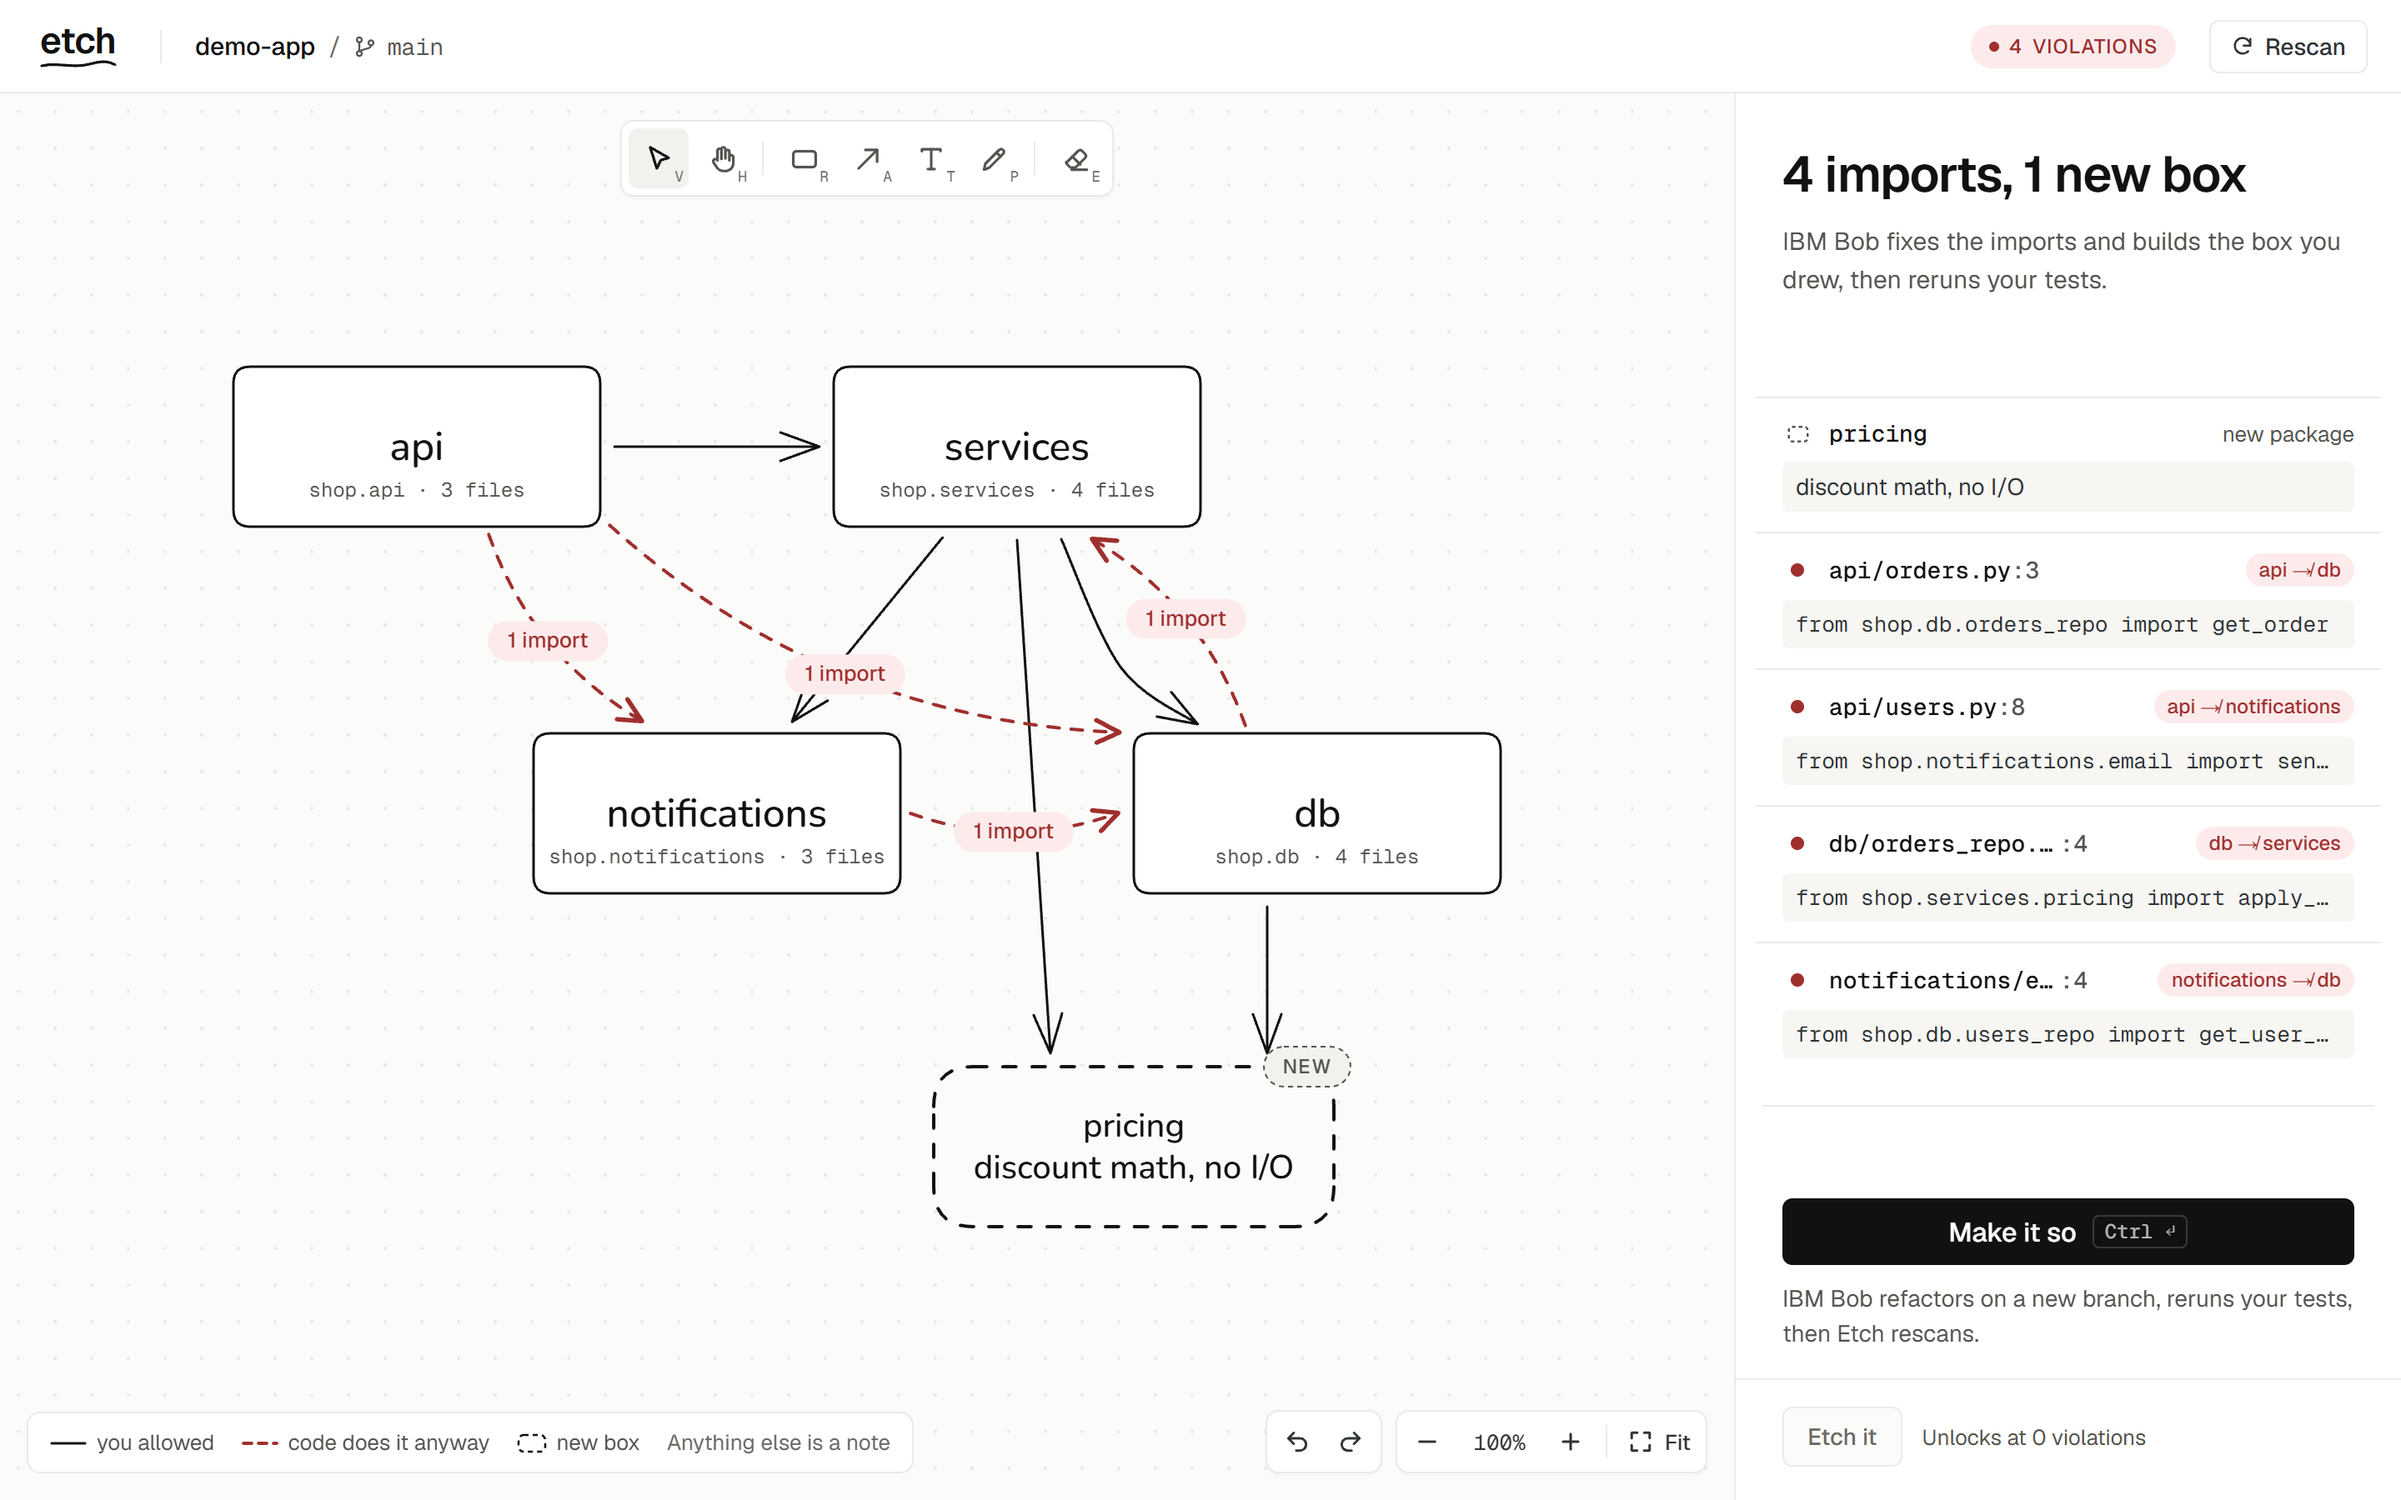
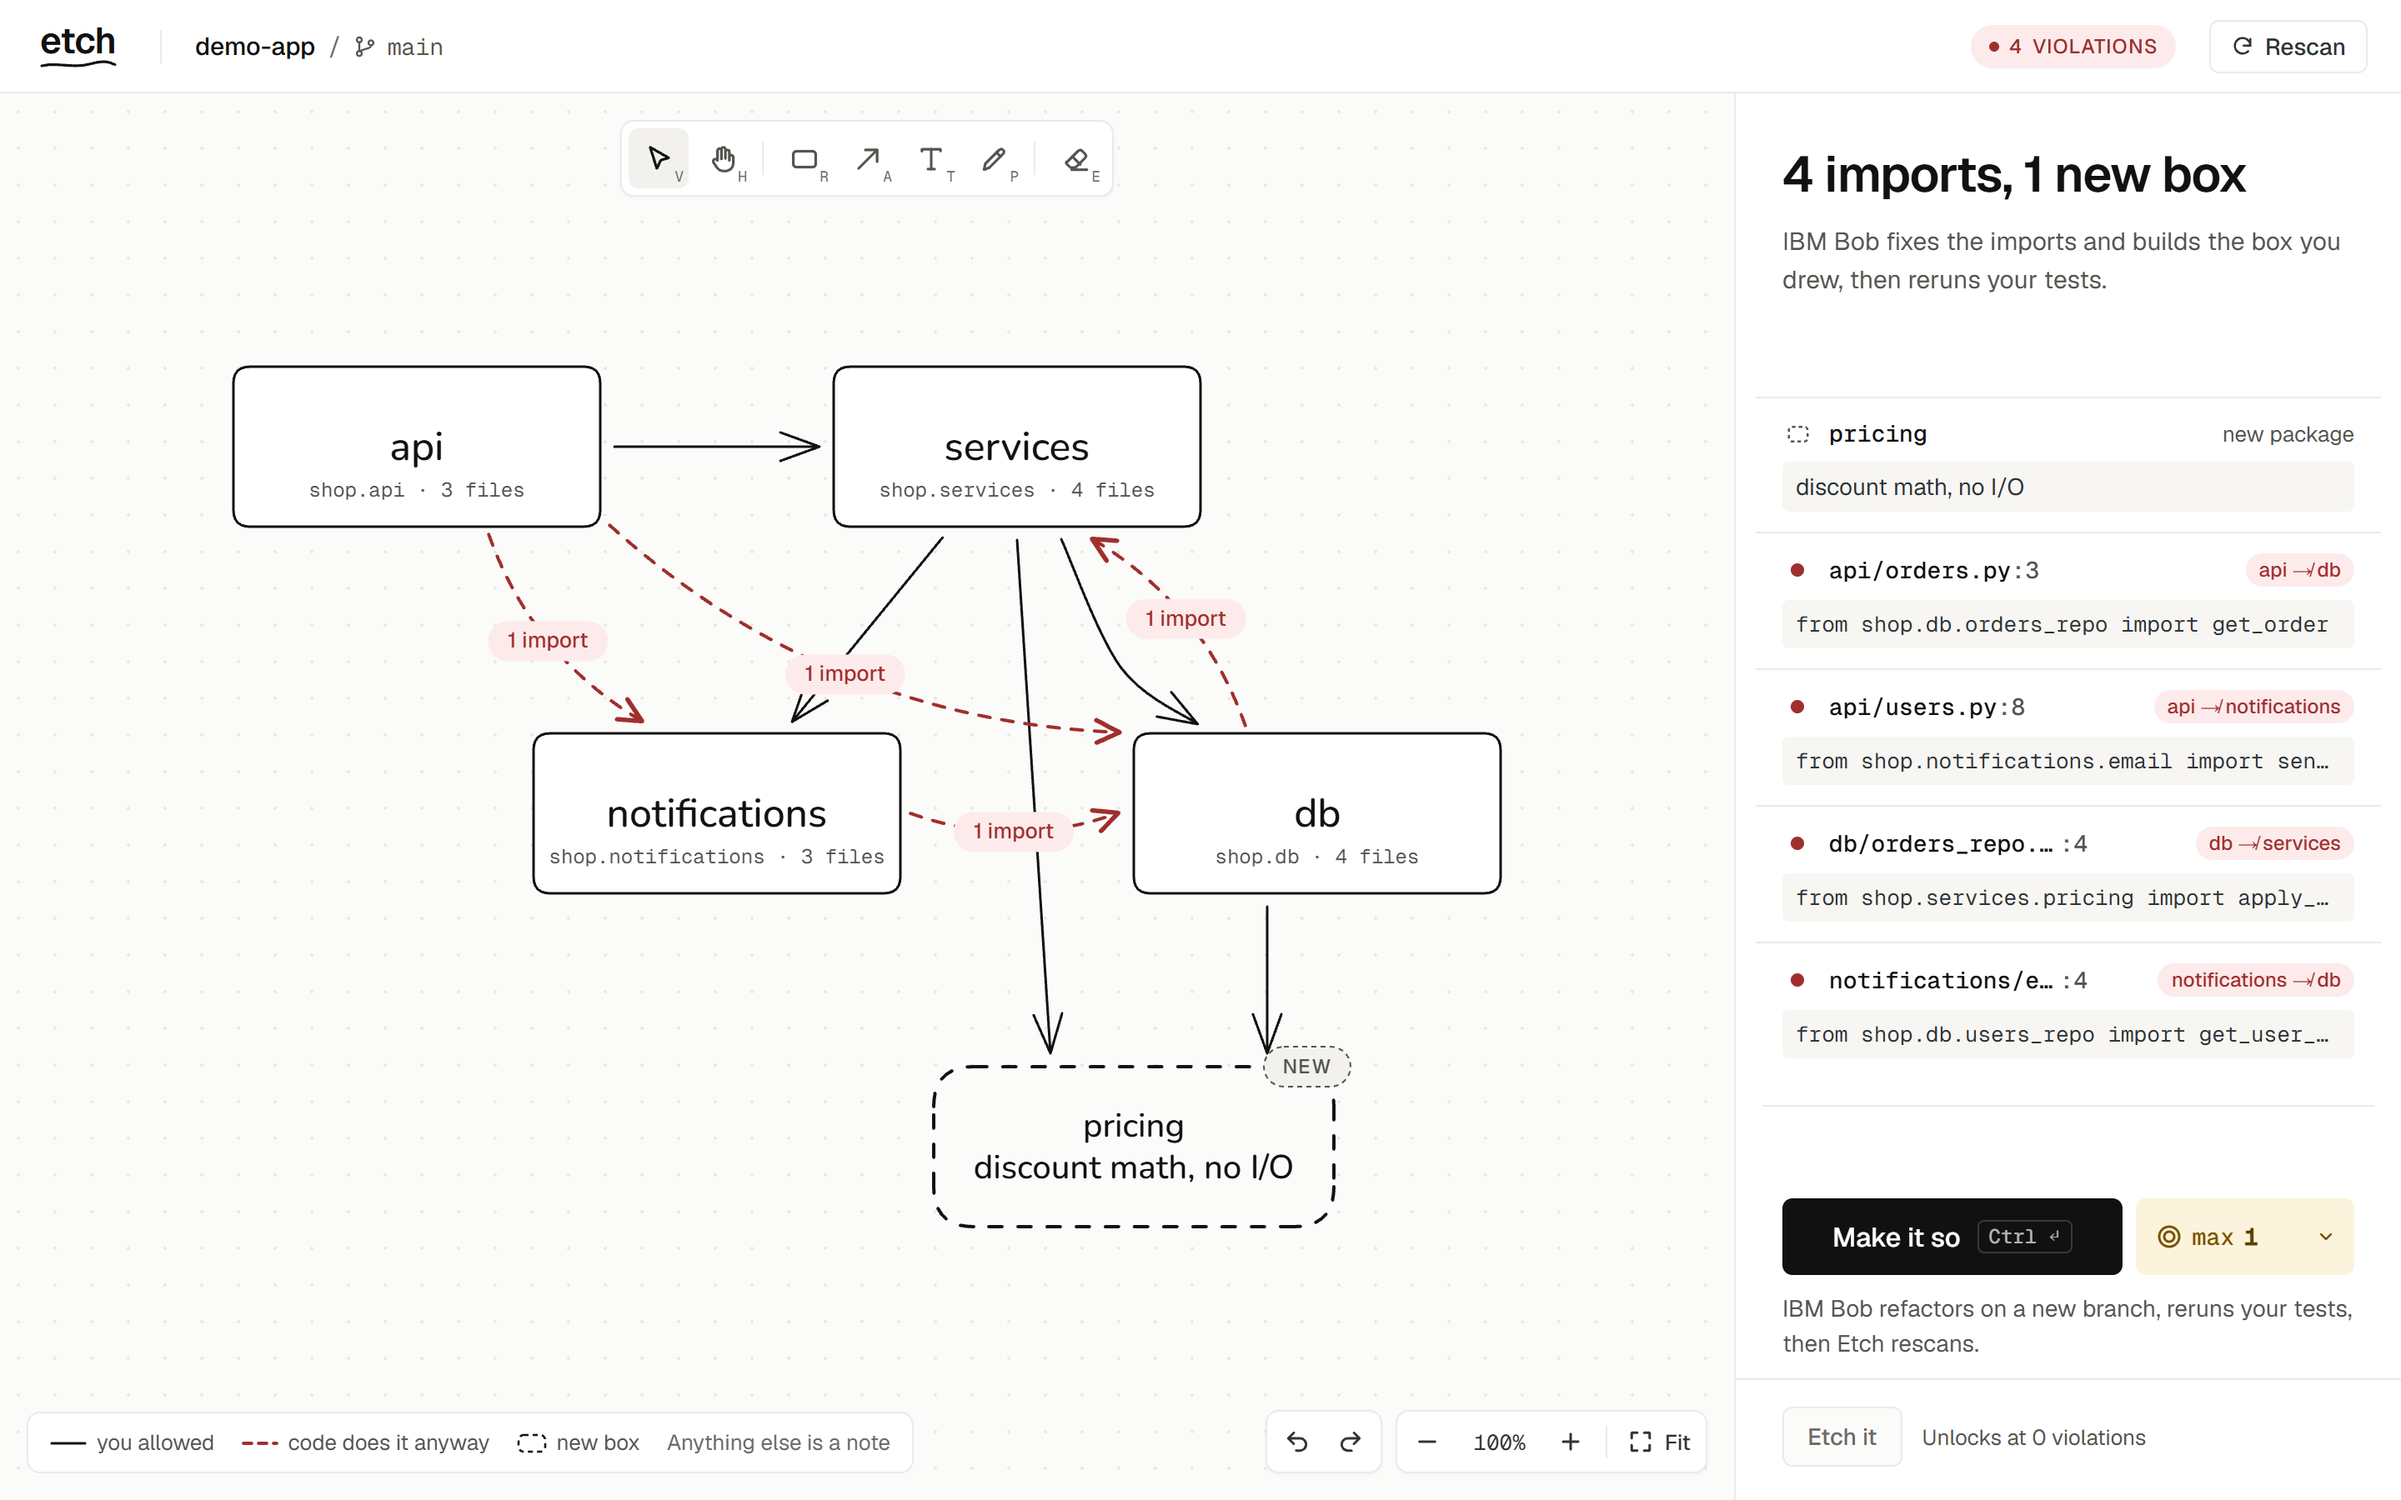
README: minimal grayscale diagrams; screenshots show the Bobcoin budget picker

Changed region(s): [[0.75, 0.7778, 1.0, 0.9022]]

diff --git a/README.md b/README.md
@@ -50,21 +50,14 @@ Tools like import-linter can enforce layers, but their config is hand-written an
 ## What Etch does
 
 ```mermaid
+%%{init: {"theme": "neutral"}}%%
 flowchart TD
-    A["Your Python repo"] -->|scan| B["Draw<br/>keep the arrows you allow,<br/>add the boxes you want"]
-    B --> C["Red arrows<br/>every import that breaks<br/>the drawing, file:line"]
-    C -->|Make it so| D["IBM Bob<br/>refactors and builds<br/>the new boxes"]
-    D -->|rescan + tests| E["Code obeys<br/>the drawing"]
-    E -->|Etch it| F["Contracts, Bob skill,<br/>PR check"]
-    F --> G["A PR that breaks<br/>the drawing is blocked"]
-
-    style A fill:#FBFBFA,stroke:#111111,color:#111111
-    style B fill:#FFFFFF,stroke:#111111,color:#111111
-    style C fill:#FDEBEC,stroke:#9F2F2D,color:#9F2F2D
-    style D fill:#FBF3DB,stroke:#7A5200,color:#5C3D00
-    style E fill:#EDF3EC,stroke:#346538,color:#346538
-    style F fill:#E1F3FE,stroke:#1F6C9F,color:#1F6C9F
-    style G fill:#FDEBEC,stroke:#9F2F2D,color:#9F2F2D
+    A[Python repo] -->|scan| B[Draw the architecture]
+    B --> C[Red arrows: imports that break it]
+    C -->|Make it so| D[IBM Bob refactors]
+    D -->|rescan + tests| E[Code obeys the drawing]
+    E -->|Etch it| F[Contracts, Bob skill, PR check]
+    F --> G[Breaking PRs are blocked]
 ```
 
 1. **Scan.** Point Etch at a Python repo. It reads every import with [grimp](https://github.com/seddonym/grimp), including the ones hidden inside functions, and draws the real architecture as boxes and arrows. Each top-level package is one box.
@@ -141,29 +134,26 @@ Etch it writes import-linter contracts and a GitHub Action. A PR that breaks the
 What happens when you press **Make it so**:
 
 ```mermaid
+%%{init: {"theme": "neutral"}}%%
 sequenceDiagram
-    autonumber
     actor You
     participant UI as Etch UI
     participant API as Etch backend
-    participant Bob as IBM Bob Shell
-    participant Repo as Your repo
+    participant Bob as Bob Shell
+    participant Repo as Repo
 
-    You->>UI: Make it so (budget: max 1 Bobcoin)
-    UI->>API: POST /api/make-it-so (drawing, max_cost)
-    API->>Repo: scan imports (grimp)
-    API-->>UI: violations
-    API->>Bob: bob run --mode agent --format stream-json --max-cost 1
-    Note over API,Bob: prompt = allowed arrows, every broken import with file:line,<br/>the packages to create, the exact test command
-    loop every tool call Bob makes
-        Bob->>Repo: read, edit, create package
-        Bob-->>API: stream-json event
-        API->>Repo: rescan (no AI)
-        API-->>UI: log line, violations, new packages (SSE)
+    You->>UI: Make it so
+    UI->>API: drawing + budget
+    API->>Repo: scan
+    API->>Bob: rules, broken imports, boxes to build
+    loop each tool call
+        Bob->>Repo: edit
+        API->>Repo: rescan
+        API-->>UI: live update
     end
-    Bob-->>API: result (session_costs)
-    API->>Repo: pytest -q
-    API-->>UI: tests, done (Bobcoins spent, boxes still missing)
+    Bob-->>API: result + cost
+    API->>Repo: run tests
+    API-->>UI: done
 ```
 
 A run only counts as done when every broken import is gone, every drawn box is a real package, and the rescan succeeds. Otherwise Etch says what's left and offers **Undo changes**. **Stop** kills Bob's whole process tree.
@@ -237,34 +227,26 @@ A run only counts as done when every broken import is gone, every drawn box is a
 ## Architecture
 
 ```mermaid
+%%{init: {"theme": "neutral"}}%%
 flowchart TB
-    subgraph Browser["Browser · React + TypeScript"]
-        CV["Canvas<br/>Excalidraw engine + Etch toolbar"]
-        OV["SVG overlay<br/>red arrows · NEW / CREATED tags"]
-        RL["Rail<br/>rows · live log · Bobcoins"]
+    subgraph Browser
+        CV[Canvas]
+        OV[Overlay]
+        RL[Rail]
     end
-
-    subgraph Backend["Backend · Python 3.12 + FastAPI"]
-        SC["scanner<br/>grimp import graph"]
-        VI["violations"]
-        CO["contracts<br/>import-linter"]
-        SK["skillgen<br/>Bob skill · mode · PR check"]
-        BR["bob_runner<br/>Bob Shell stream"]
-        GO["gitops<br/>etch/make-it-so branch"]
+    subgraph Backend[FastAPI backend]
+        SC[scanner]
+        VI[violations]
+        CO[contracts]
+        SK[skillgen]
+        BR[bob_runner]
+        GO[gitops]
     end
-
-    Browser -- "REST + SSE" --> Backend
-    BR --> BOB["IBM Bob Shell"]
-    SC --> REPO[("Your repo")]
+    Browser -- REST + SSE --> Backend
+    BR --> BOB[Bob Shell]
+    SC --> REPO[(Repo)]
     BOB --> REPO
-    GO --> REPO
-    GO --> GH["GitHub<br/>PR + Actions gate"]
-
-    style Browser fill:#FBFBFA,stroke:#111111,color:#111111
-    style Backend fill:#FBFBFA,stroke:#111111,color:#111111
-    style BOB fill:#FBF3DB,stroke:#7A5200,color:#5C3D00
-    style REPO fill:#FFFFFF,stroke:#111111,color:#111111
-    style GH fill:#E1F3FE,stroke:#1F6C9F,color:#1F6C9F
+    GO --> GH[GitHub]
 ```
 
 Etch obeys its own rule. `etch.models` imports nothing from `etch`, the engine modules import only `etch.models`, and only `etch.main` wires them together.
